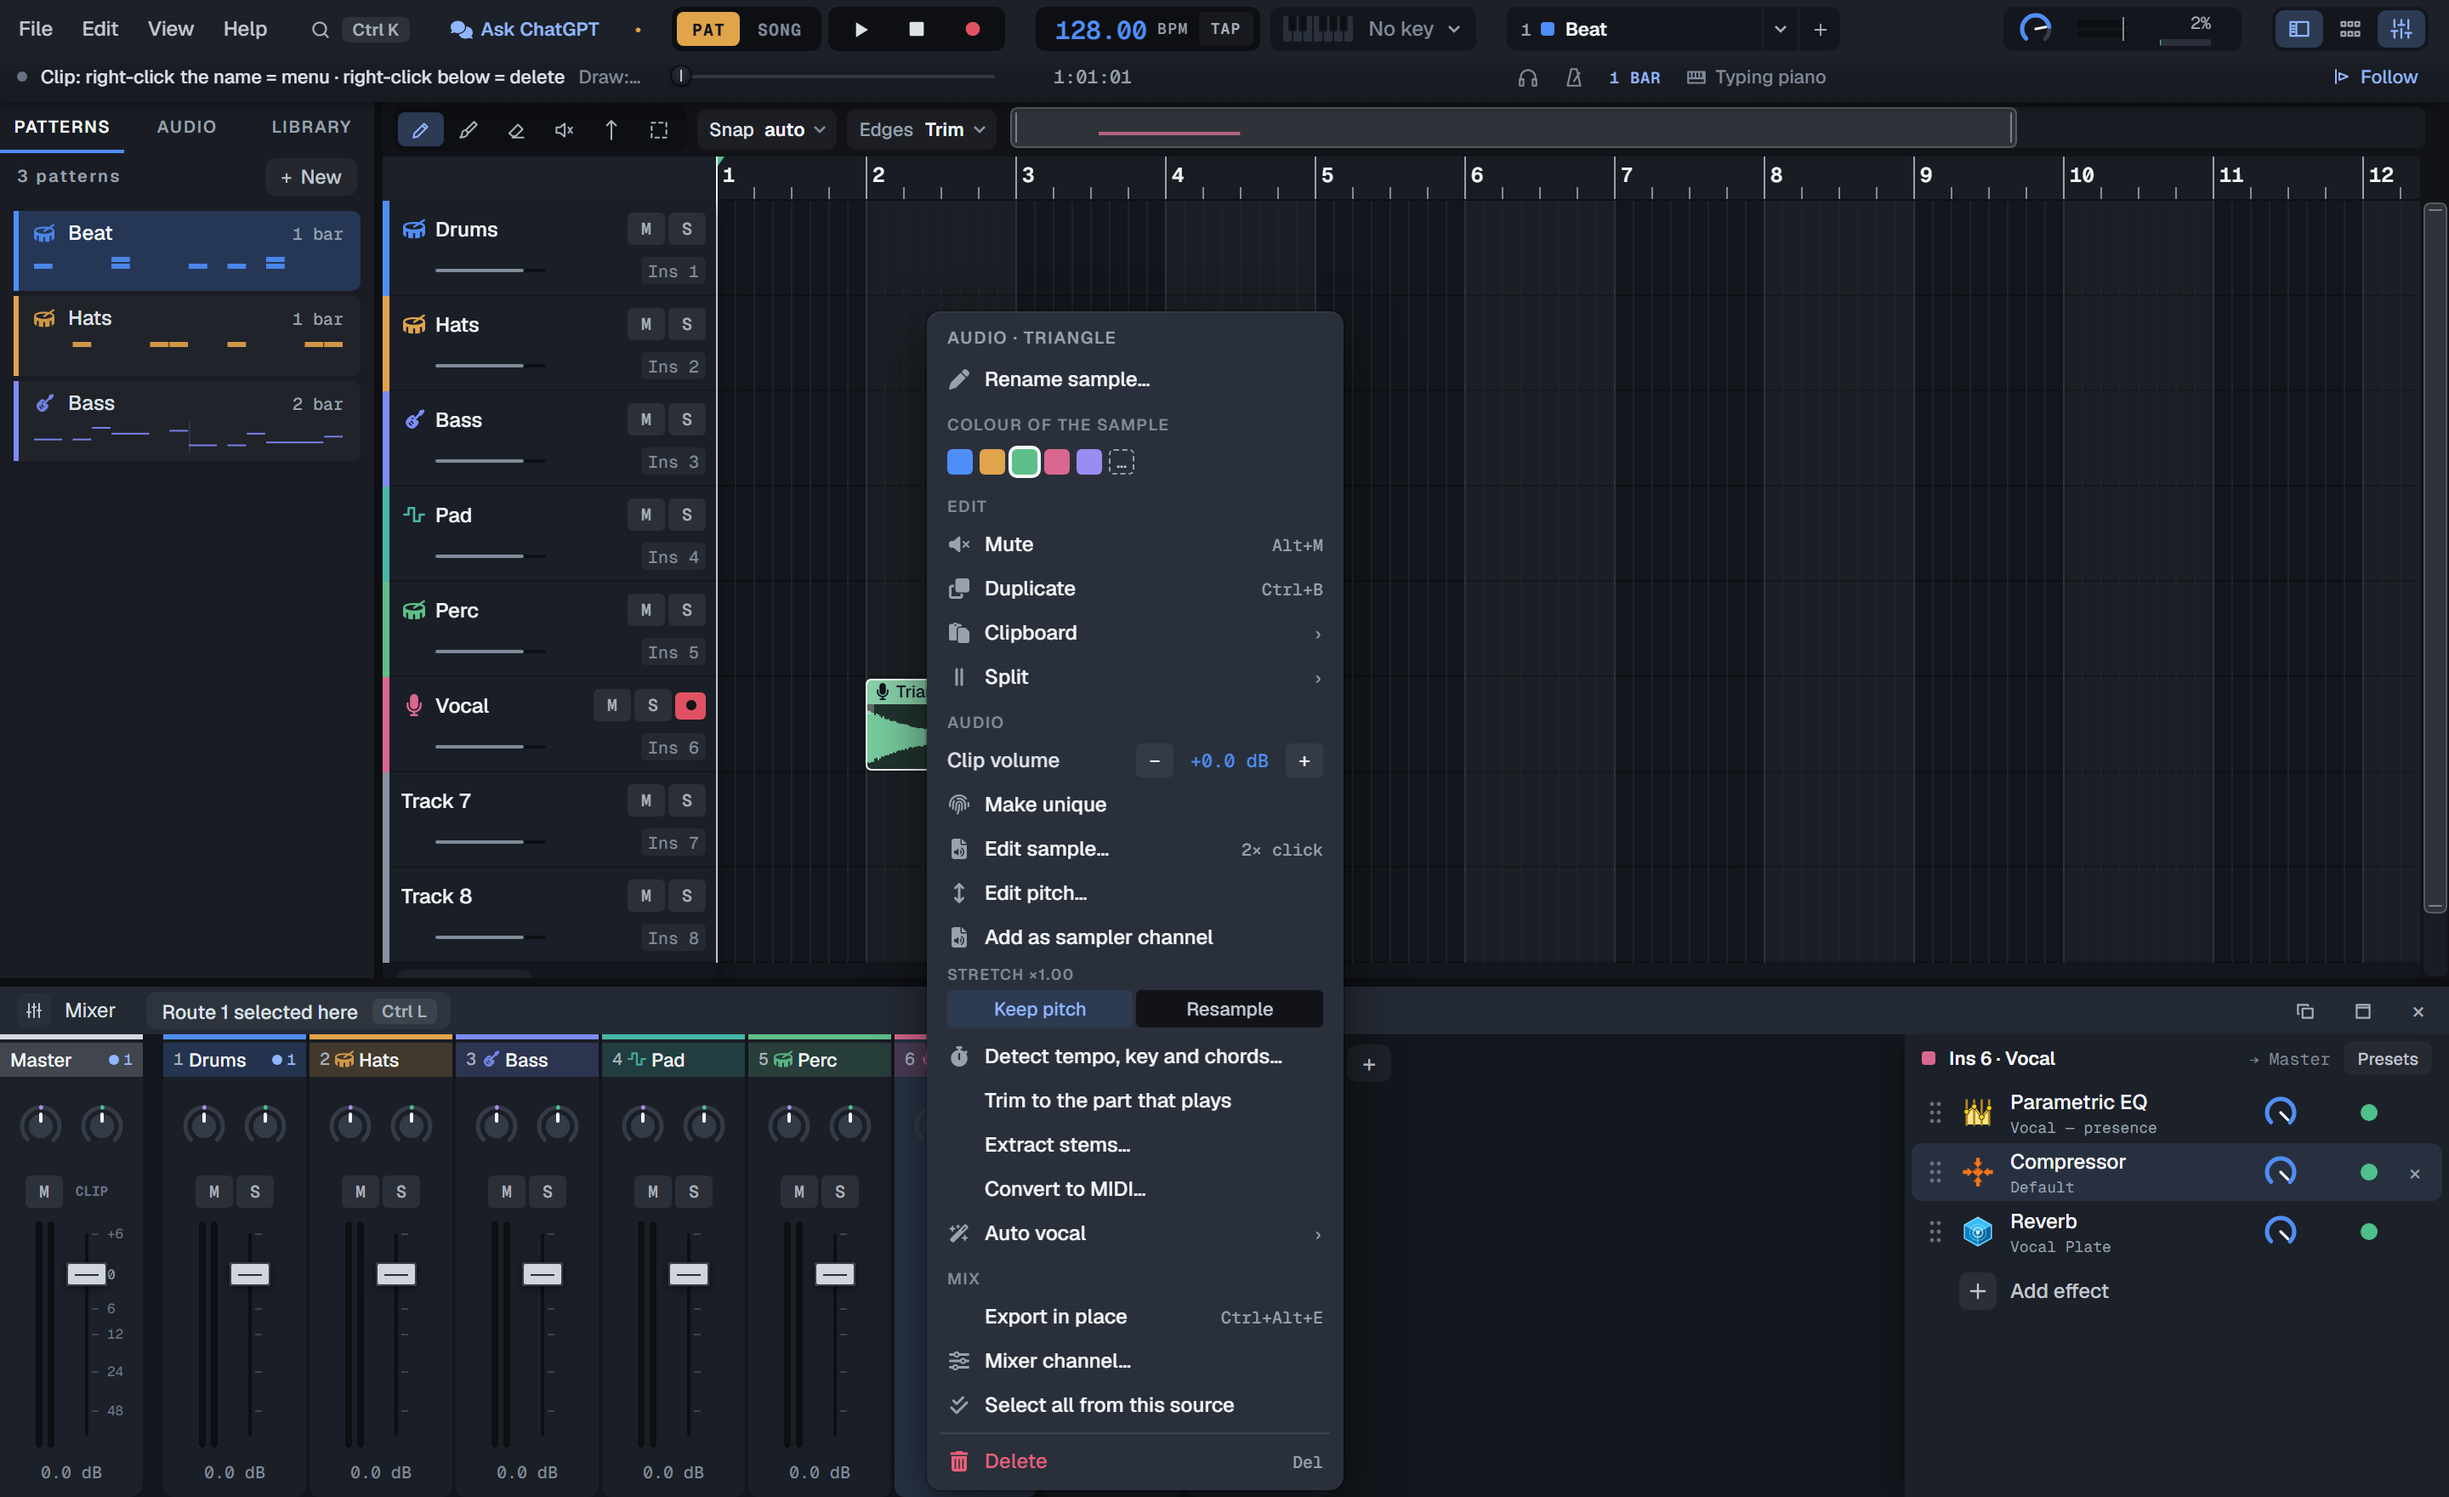
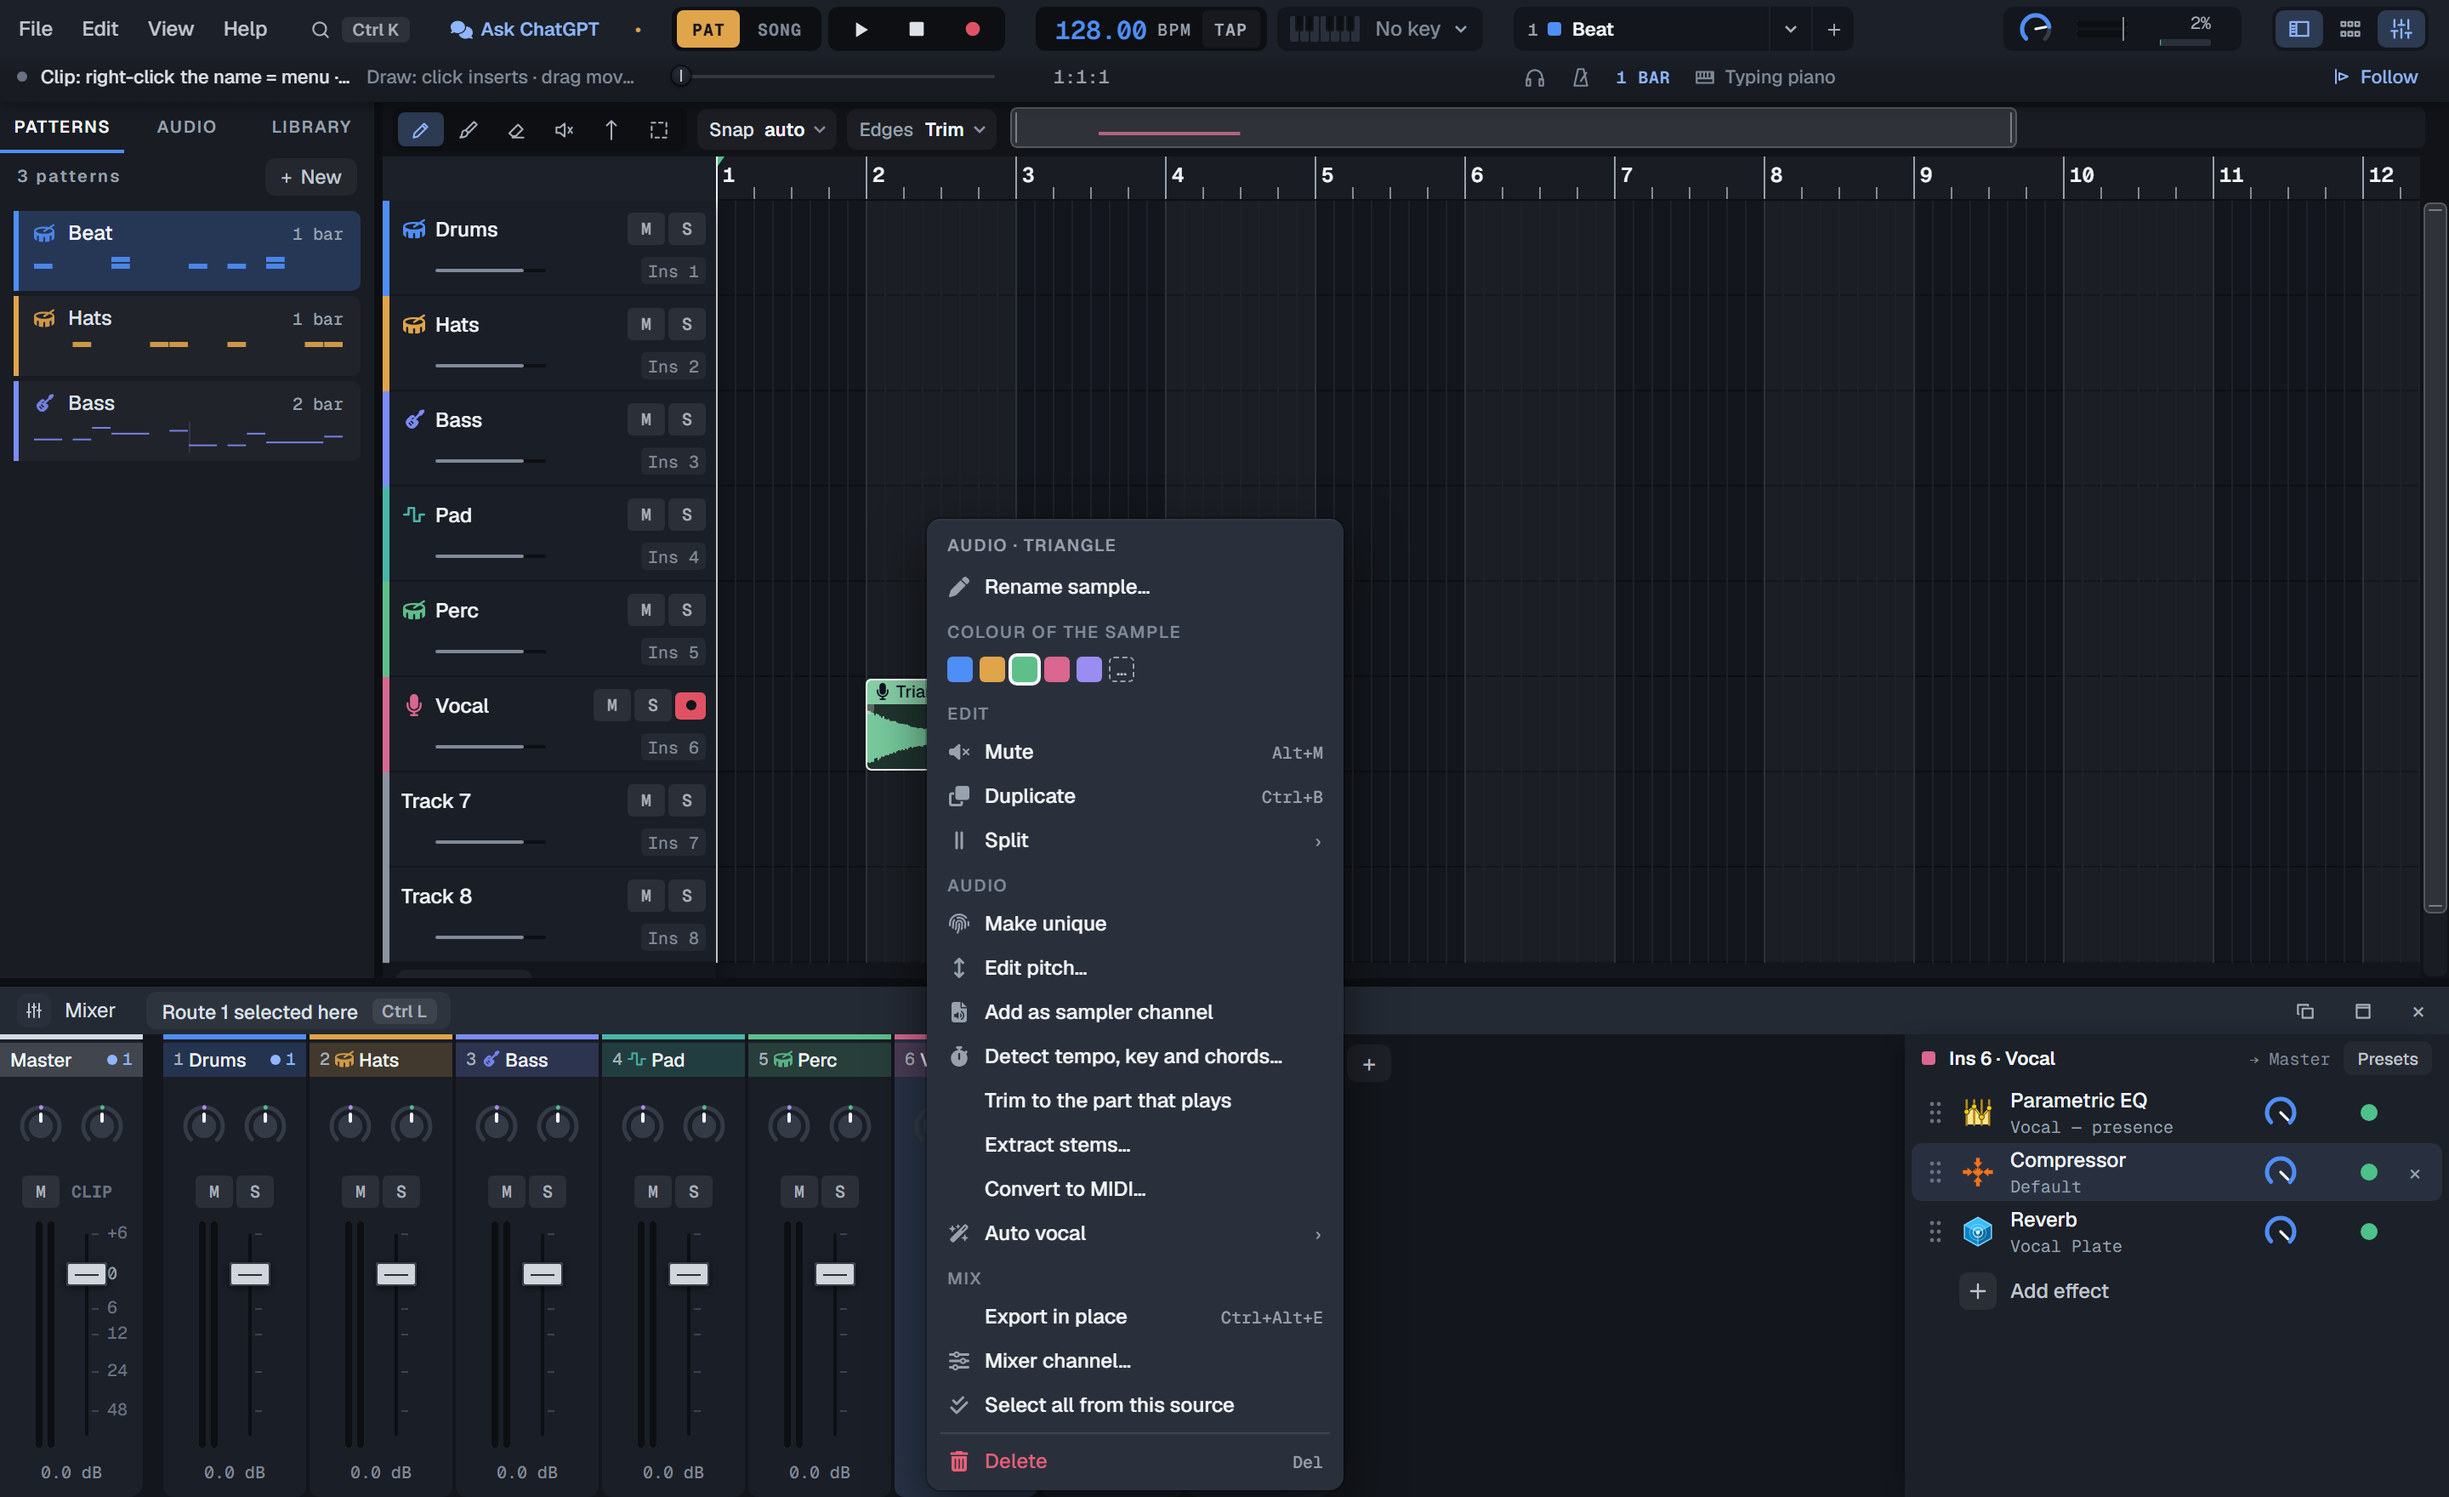
A shorter audio clip menu: volume, stretch method, Edit sample and the clipboard submenu go
They each have a better place: the clip's volume and stretch method are in the Sample editor,
which a double-click opens; copy and cut are Ctrl+C / Ctrl+X and the Edit menu. Trim to the part
that plays stays (it is only here). Pattern clips keep their menu.

diff --git a/ui/src/views/Playlist.tsx b/ui/src/views/Playlist.tsx
@@ -1321,10 +1321,10 @@ export function Playlist() {
       { t: 'sec', label: tl('a.pl.secEdit') },
       { t: 'item', label: c.muted ? tl('a.pl.unmute') : tl('a.pl.mute'), kbd: 'Alt+M', act: A.toggleMuteSel },
       { t: 'item', label: tl('a.pl.duplicate'), kbd: 'Ctrl+B', act: A.duplicate },
-      { t: 'sub', label: tl('a.pl.clipboard'), items: [
+      ...(isPat ? [{ t: 'sub', label: tl('a.pl.clipboard'), items: [
         { t: 'item', label: tl('a.pl.copy'), kbd: 'Ctrl+C', act: A.copy },
         { t: 'item', label: tl('a.pl.cut'), kbd: 'Ctrl+X', act: A.cut },
-      ] },
+      ] } as MenuItem] : []),
       { t: 'sub', label: tl('a.pl.split'), items: [
         { t: 'item', label: tl('a.pl.splitHere'), act: () => A.sliceAt(c.id, snapRound(p.beat, unit(false))) },
         { t: 'item', label: tl('a.pl.splitAtHead'), act: () => A.sliceAt(c.id, curBeat()) },
@@ -1334,17 +1334,15 @@ export function Playlist() {
         { t: 'item', label: tl('a.pl.editPattern'), kbd: tl('a.pl.dblClick'), act: () => openPattern(c.ref) } as MenuItem,
         { t: 'item', label: tl('a.pl.makeUnique'), act: () => A.makeUnique(c) } as MenuItem,
       ] : [
+        // the audio clip's own menu holds what is done to the clip from here; its volume, stretch method
+        // and editor (double-click) live in the Sample editor
         { t: 'sec', label: 'Audio' } as MenuItem,
-        { t: 'gain', clipId: c.id } as MenuItem,
         ...(c.kind === 'audio' ? [
           ...(c.ref in S.missing ? [{ t: 'item', label: tl('d.miss.menu'), title: S.missing[c.ref], act: () => setU('missingOpen', true) } as MenuItem] : []),
           { t: 'item', label: tl('a.pl.makeUnique'), title: tl('a.pl.makeUniqueAudioTip'), act: () => A.makeUnique(c) } as MenuItem,
-          { t: 'item', label: tl('a.pl.editSample'), kbd: tl('a.pl.dblClick'), act: () => A.openEditor(c.id) } as MenuItem,
           { t: 'item', label: tl('a.pl.editPitch'), kbd: c.tune?.notes.length ? tl('a.pl.edited') : '', act: () => A.openPitchEditor(c.id) } as MenuItem,
           // a playlist drop plays the source directly; this adds the rack entry for it (FL's audio clip channel)
           { t: 'item', label: tl('a.pl.toSampler'), title: tl(hasSamplerOf(c.ref) ? 'a.pl.toSamplerHave' : 'a.pl.toSamplerTip'), disabled: hasSamplerOf(c.ref), act: () => addSampler(c.ref) } as MenuItem,
-          // how a stretch plays (the clip's stretch factor in the label: set it in Stretch mode)
-          { t: 'chips', label: tl('a.pl.stretchMethod', { k: (c.stretch ?? 1).toFixed(2) }), options: [tl('a.pl.keepPitch'), tl('a.pl.resample')], active: c.resample ? 1 : 0, pick: (i: number) => A.setStretchMethod(c, i === 1) } as MenuItem,
           ...(S.stretching[c.id] ? [{ t: 'item', label: tl('a.pl.stretchFailed'), title: S.stretching[c.id], disabled: true, act: () => {} } as MenuItem] : []),
           { t: 'item', label: tl('a.pl.detectTempoKey'), act: () => A.openMusicAnalysis({ clipId: c.id }) } as MenuItem,
           { t: 'item', label: tl('a.pl.trimRegion'), title: tl('d.smp.trim.tip'), act: () => void A.trimClip(c.id) } as MenuItem,

diff --git a/ui/src/i18n/part-a.ts b/ui/src/i18n/part-a.ts
@@ -186,7 +186,6 @@ export const en = {
   'a.pl.duplicate': 'Duplicate',
   'a.pl.editPattern': 'Edit pattern…',
   'a.pl.editPitch': 'Edit pitch…',
-  'a.pl.editSample': 'Edit sample…',
   'a.pl.edited': 'edited',
   'a.pl.endSoloPrev': 'End solo preview',
   'a.pl.flattenComp': 'Flatten comp',
@@ -245,7 +244,6 @@ export const en = {
   'a.pl.stretchLimit': 'limit ×0.25–×4',
   'a.pl.stretchNotAudio': 'Only audio clips stretch — this clip is trimmed',
   'a.pl.stretchComp': 'Take-lane (comp) clips cannot be stretched — this clip is trimmed',
-  'a.pl.stretchMethod': 'Stretch ×{k}',
   'a.pl.keepPitch': 'Keep pitch',
   'a.pl.resample': 'Resample',
   'a.pl.keepPitchOp': 'Stretch keeping pitch',
@@ -864,7 +862,6 @@ export const pl: Record<keyof typeof en, string> = {
   'a.pl.duplicate': 'Duplikuj',
   'a.pl.editPattern': 'Edytuj pattern…',
   'a.pl.editPitch': 'Edytuj wysokość…',
-  'a.pl.editSample': 'Edytuj sample…',
   'a.pl.edited': 'edytowany',
   'a.pl.endSoloPrev': 'Zakończ odsłuch solo',
   'a.pl.flattenComp': 'Spłaszcz comp',
@@ -923,7 +920,6 @@ export const pl: Record<keyof typeof en, string> = {
   'a.pl.stretchLimit': 'limit ×0,25–×4',
   'a.pl.stretchNotAudio': 'Rozciągać można tylko klipy audio — ten klip jest przycinany',
   'a.pl.stretchComp': 'Klipów z take’ami (comp) nie można rozciągać — ten klip jest przycinany',
-  'a.pl.stretchMethod': 'Rozciągnięcie ×{k}',
   'a.pl.keepPitch': 'Zachowaj tonację',
   'a.pl.resample': 'Resample',
   'a.pl.keepPitchOp': 'Rozciąganie z zachowaniem tonacji',

diff --git a/CHANGELOG.md b/CHANGELOG.md
@@ -38,6 +38,9 @@ shown in the app after an update and is published as the release notes (see
   pad's mids under the vocal, or a bass's low end under the kick.
 
 ### Changed
+- **A shorter audio clip menu.** Right-clicking an audio clip on the Playlist no longer lists what
+  has a better place: its volume and stretch method are in the Sample editor (double-click the
+  clip), copy and cut are Ctrl+C / Ctrl+X. What is left is what you do to a clip from there.
 - **One way to write a position everywhere: bar:beat:16th.** The transport, the time rulers (beats
   read 2:3), the status line, menus and the Piano roll's note properties all write the same moment
   the same way, so 2:3:1 on one is 2:3:1 on the other. The transport drops its leading zeros
